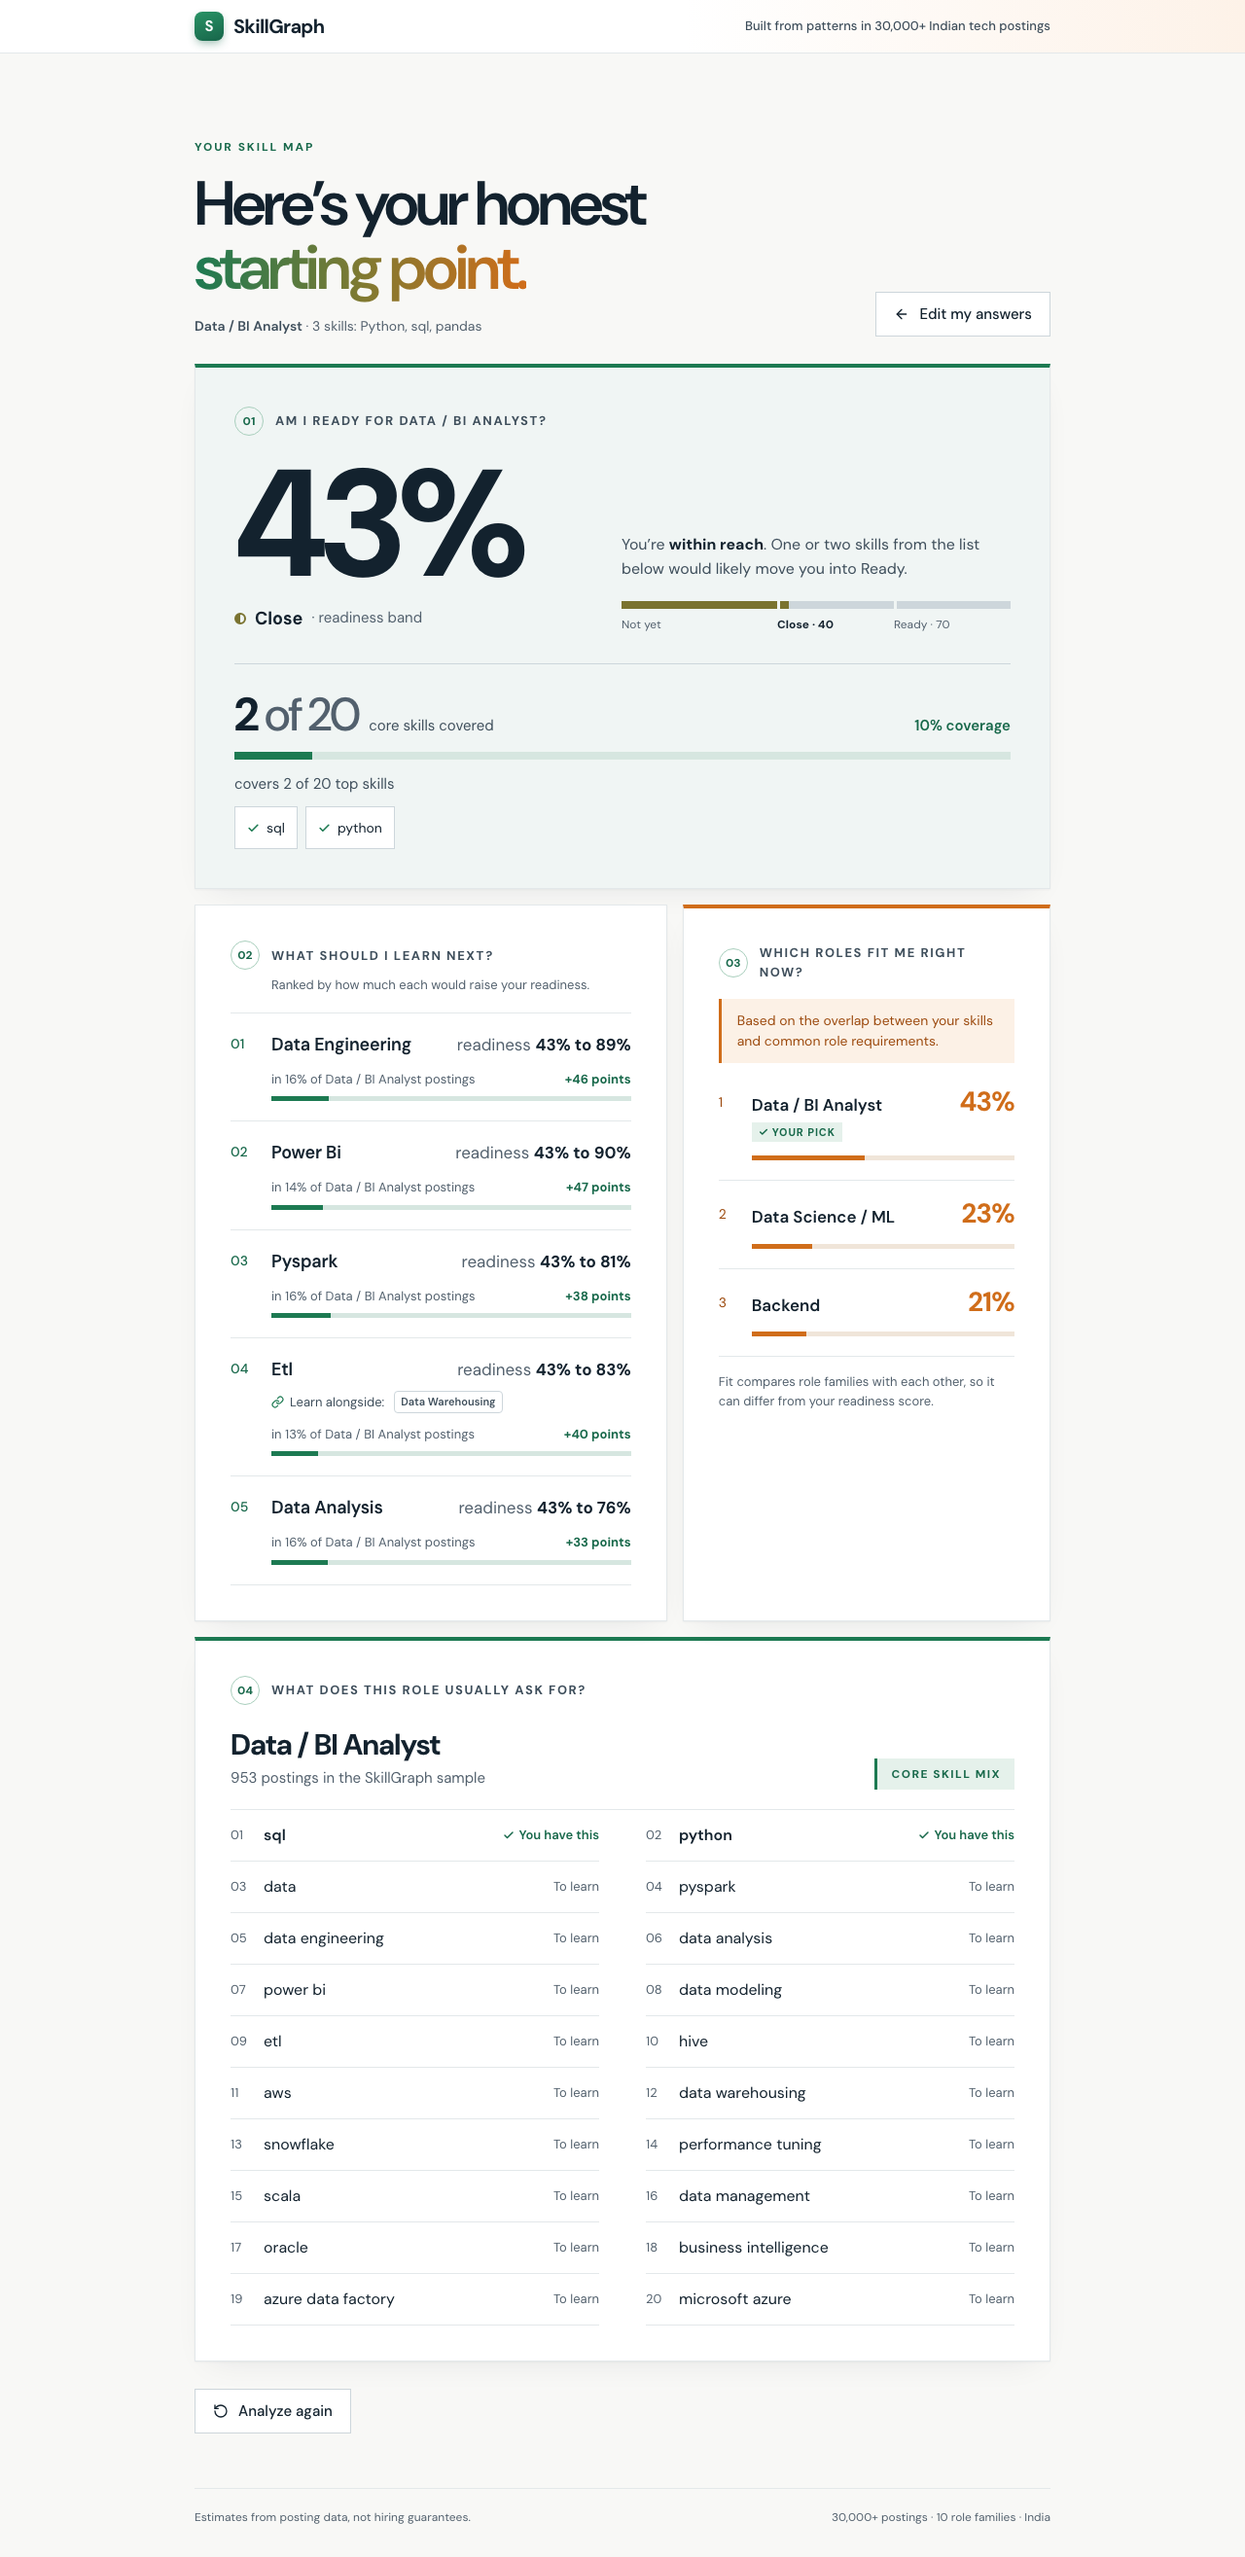
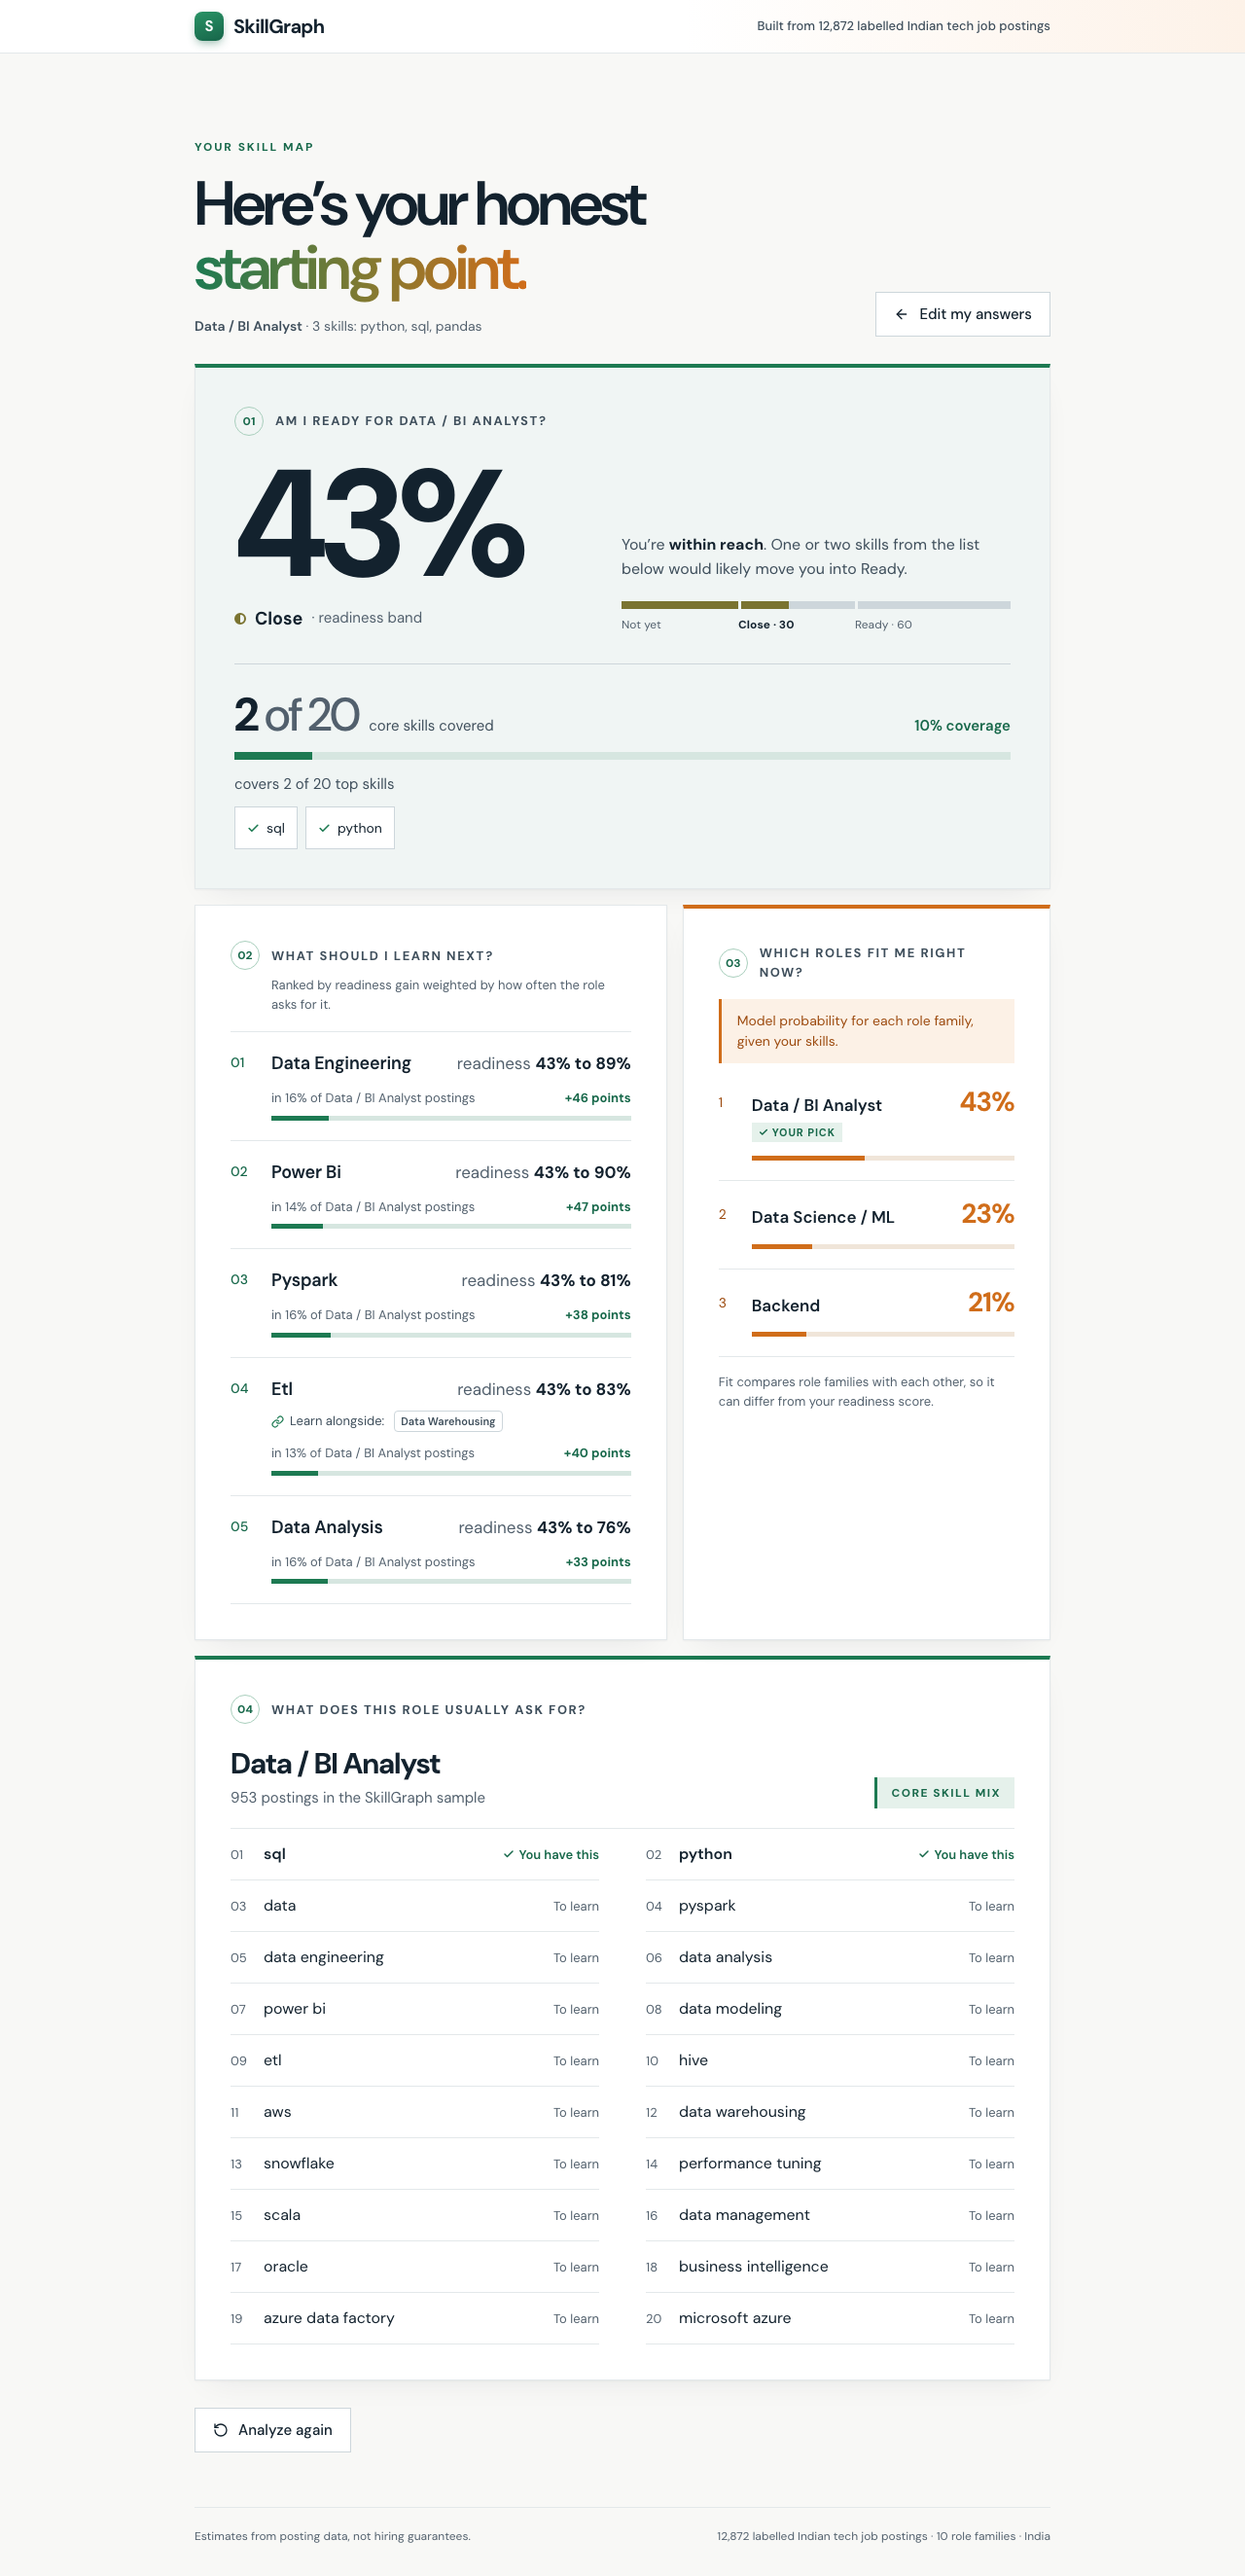
fix(frontend): update band cutoffs, copy and remove em dashes

diff --git a/frontend/src/App.jsx b/frontend/src/App.jsx
@@ -28,7 +28,7 @@ function disabledReason(count, role) {
   if (need && !role) {
     return count === 0 ? 'Add at least 2 skills and choose a target role to continue.' : 'Add 1 more skill and choose a target role to continue.';
   }
-  if (need) return count === 0 ? 'Add at least 2 skills to continue.' : 'Add 1 more skill to continue — one skill isn’t enough to compare against postings.';
+  if (need) return count === 0 ? 'Add at least 2 skills to continue.' : 'Add 1 more skill to continue, one skill isn’t enough to compare against postings.';
   if (!role) return 'Choose the role you’re aiming for to continue.';
   return null;
 }
@@ -43,7 +43,7 @@ function Header() {
           </span>
           <span className="text-xl font-bold tracking-[-0.035em]">SkillGraph</span>
         </div>
-        <span className="ml-auto hidden text-[13px] font-medium text-ink-2 sm:block">Built from patterns in 30,000+ Indian tech postings</span>
+        <span className="ml-auto hidden text-[13px] font-medium text-ink-2 sm:block">Built from 12,872 labelled Indian tech job postings</span>
       </div>
     </header>
   );
@@ -53,7 +53,7 @@ function Footer() {
   return (
     <footer className="flex flex-wrap justify-between gap-x-4 gap-y-1 border-t border-line pb-8 pt-5 text-xs leading-normal text-ink-3">
       <span>Estimates from posting data, not hiring guarantees.</span>
-      <span>30,000+ postings · 10 role families · India</span>
+      <span>12,872 labelled Indian tech job postings · 10 role families · India</span>
     </footer>
   );
 }
@@ -217,7 +217,7 @@ export default function App() {
                 <span className="text-gradient pb-[0.06em]">before you apply.</span>
               </h1>
               <p className="mt-5 max-w-[40ch] text-[clamp(16px,2.6vw,19px)] leading-[1.55] text-ink-2 text-pretty">
-                See how your current skills line up with the roles Indian tech companies are hiring for — based on 30,000+ real postings.
+                See how your current skills line up with the roles Indian tech companies are hiring for, based on 12,872 labelled Indian tech job postings.
               </p>
             </section>
 
@@ -227,11 +227,11 @@ export default function App() {
                 <div>
                   <h2 className="mb-1.5 text-[19px] font-bold tracking-[-0.02em]">We can't reach SkillGraph right now</h2>
                   <p className="mb-1.5 max-w-[58ch] text-[15px] leading-[1.55] text-ink-2 text-pretty">
-                    The roles load from our server, which is either waking up or briefly offline. Nothing you did caused this — your skills are kept.
+                    The roles load from our server, which is either waking up or briefly offline. Nothing you did caused this. Your skills are kept.
                   </p>
                   <p className="mb-4 text-sm text-ink-3">
                     {retryIn > 0
-                      ? `We'll try again automatically in ${retryIn} s. Free servers can take up to 30 seconds to wake up.`
+                      ? `We'll try again automatically in ${retryIn} s. Free servers can take up to 25 seconds to wake up.`
                       : 'Trying again…'}
                   </p>
                   <button type="button" onClick={loadRoles} className={primaryBtn.replace('min-h-[46px]', 'min-h-11')}>
@@ -306,16 +306,16 @@ export default function App() {
                     </h2>
                     <p className="mb-5 max-w-[60ch] text-[15px] leading-[1.55] text-ink-2 text-pretty">
                       {!waking
-                        ? 'Comparing your skills with 30,000+ postings. This usually takes a few seconds.'
-                        : 'This can take up to 30 seconds. SkillGraph runs on a free server that sleeps when nobody is using it, so the first check after a quiet spell is slower. Waiting is normal — no need to refresh, and your answers are kept.'}
+                        ? 'Comparing your skills with 12,872 labelled Indian tech job postings. This usually takes a few seconds.'
+                        : 'This can take up to 25 seconds. SkillGraph runs on a free server that sleeps when nobody is using it, so the first check after a quiet spell is slower. Waiting is normal, no need to refresh, and your answers are kept.'}
                     </p>
                     <div className="max-w-[520px]" aria-hidden="true">
                       <div className="h-1.5 bg-accent-track">
-                        <div className="h-full bg-accent transition-[width] duration-200 ease-linear" style={{ width: `${Math.min(96, (elapsed / 30) * 100)}%` }} />
+                        <div className="h-full bg-accent transition-[width] duration-200 ease-linear" style={{ width: `${Math.min(96, (elapsed / 25) * 100)}%` }} />
                       </div>
                       <div className="mt-2 flex justify-between gap-3 text-[13px] tabular-nums text-ink-3">
                         <span>{Math.floor(elapsed)} s elapsed</span>
-                        <span>Cold starts take up to 30 s</span>
+                        <span>Cold starts take up to 25 s</span>
                       </div>
                     </div>
                   </div>
@@ -373,8 +373,8 @@ export default function App() {
                     <span className="[overflow-wrap:anywhere]">
                       We didn't recognise: <strong className="font-semibold text-ink">{unrecognized.join(', ')}</strong>.{' '}
                       {unrecognized.length === 1
-                        ? 'It wasn’t counted — check the spelling or pick from the suggestions.'
-                        : 'They weren’t counted — check the spelling or pick from the suggestions.'}
+                        ? 'It wasn’t counted. Check the spelling or pick from the suggestions.'
+                        : 'They weren’t counted. Check the spelling or pick from the suggestions.'}
                     </span>
                   </p>
                 )}

diff --git a/frontend/src/components/ReadinessPanel.jsx b/frontend/src/components/ReadinessPanel.jsx
@@ -4,6 +4,13 @@ import StepHeading from './ui/StepHeading';
 import ProbabilityBar from './ui/ProbabilityBar';
 import { CoveredChip } from './ui/Chip';
 
+const BAND_CUTOFFS = {
+  close: 0.3,
+  ready: 0.6,
+  coverageClose: 0.1,
+  coverageReady: 0.2,
+};
+
 const BANDS = {
   Ready: {
     index: 2,
@@ -21,24 +28,24 @@ const BANDS = {
     index: 0,
     dot: 'border-band-notyet bg-transparent',
     fill: 'bg-band-notyet',
-    message: () => ['This is a ', 'starting point', ', not a verdict. The list below is the shortest path up — most students begin about here.'],
+    message: () => ['This is a ', 'starting point', ', not a verdict. The list below is the shortest path up, most students begin about here.'],
   },
 };
 
 const ZONES = [
-  { label: 'Not yet', basis: 'flex-[0_0_40%]' },
-  { label: 'Close · 40', basis: 'flex-[0_0_30%]' },
-  { label: 'Ready · 70', basis: 'flex-[0_0_30%]' },
+  { label: 'Not yet', basis: 'flex-[0_0_30%]' },
+  { label: `Close · ${Math.round(BAND_CUTOFFS.close * 100)}`, basis: 'flex-[0_0_30%]' },
+  { label: `Ready · ${Math.round(BAND_CUTOFFS.ready * 100)}`, basis: 'flex-[0_0_40%]' },
 ];
 
 function getTension({ probability, coverage }) {
   let probBand = 'Not yet';
-  if (probability >= 0.6) probBand = 'Ready';
-  else if (probability >= 0.3) probBand = 'Close';
+  if (probability >= BAND_CUTOFFS.ready) probBand = 'Ready';
+  else if (probability >= BAND_CUTOFFS.close) probBand = 'Close';
 
   let covBand = 'Not yet';
-  if (coverage >= 0.2) covBand = 'Ready';
-  else if (coverage >= 0.1) covBand = 'Close';
+  if (coverage >= BAND_CUTOFFS.coverageReady) covBand = 'Ready';
+  else if (coverage >= BAND_CUTOFFS.coverageClose) covBand = 'Close';
 
   const levels = { 'Ready': 3, 'Close': 2, 'Not yet': 1 };
   
@@ -109,8 +116,8 @@ export default function ReadinessPanel({ readiness, role }) {
           <div aria-hidden="true">
             <div className="relative h-2 bg-line-2">
               <div className={`absolute inset-y-0 left-0 ${band.fill}`} style={{ width: `${pct}%` }} />
-              <span className="absolute bottom-[-3px] left-[40%] top-[-3px] w-[3px] bg-tint" />
-              <span className="absolute bottom-[-3px] left-[70%] top-[-3px] w-[3px] bg-tint" />
+              <span className="absolute bottom-[-3px] top-[-3px] w-[3px] bg-tint" style={{ left: `${BAND_CUTOFFS.close * 100}%` }} />
+              <span className="absolute bottom-[-3px] top-[-3px] w-[3px] bg-tint" style={{ left: `${BAND_CUTOFFS.ready * 100}%` }} />
             </div>
             <div className="mt-2 flex text-xs">
               {ZONES.map((z, i) => (

diff --git a/frontend/src/components/MatchPanel.jsx b/frontend/src/components/MatchPanel.jsx
@@ -24,7 +24,7 @@ export default function MatchPanel({ matches = [], desiredRole, onSwitchRole, cl
             Best fit is {best}.
           </p>
           <p className="mb-4 text-sm leading-[1.55] text-ink-2 text-pretty">
-            Not a dead end — it shows where you'd be competitive today. Section 02 shows what {desiredRole} would take.
+            Not a dead end. It shows where you'd be competitive today. Section 02 shows what {desiredRole} would take.
           </p>
           {onSwitchRole && (
             <button
@@ -41,7 +41,7 @@ export default function MatchPanel({ matches = [], desiredRole, onSwitchRole, cl
 
       {chosenInTop && (
         <p className="mb-1.5 border-l-[3px] border-fit bg-fit-tint px-4 py-3 text-sm leading-normal text-fit-ink">
-          Based on the overlap between your skills and common role requirements.
+          Model probability for each role family, given your skills.
         </p>
       )}
 
@@ -74,7 +74,7 @@ export default function MatchPanel({ matches = [], desiredRole, onSwitchRole, cl
             {(!chosenInTop && desiredRole) && (
               <li className="grid grid-cols-[24px_minmax(0,1fr)] gap-x-2.5 pb-1 pt-4">
                 <span aria-hidden="true" className="pt-px text-sm text-ink-3">
-                  —
+                  -
                 </span>
                 <div className="flex flex-wrap justify-between gap-x-3 gap-y-1 text-[15px]">
                   <span className="text-ink-2">

diff --git a/frontend/src/components/GapPanel.jsx b/frontend/src/components/GapPanel.jsx
@@ -18,7 +18,7 @@ export default function GapPanel({ recommendations = [], probability = 0, role, 
 
       {recs.length > 0 ? (
         <>
-          <p className="mb-[18px] ml-[42px] text-[13px] text-ink-3">Ranked by how much each would raise your readiness.</p>
+          <p className="mb-[18px] ml-[42px] text-[13px] text-ink-3">Ranked by readiness gain weighted by how often the role asks for it.</p>
           <ol className="border-t border-line">
             {recs.map((rec, i) => {
               const after = Math.round(Math.min(1, probability + (rec.readiness_gain || 0)) * 100);
@@ -69,7 +69,7 @@ export default function GapPanel({ recommendations = [], probability = 0, role, 
           <div>
             <p className="mb-1.5 text-lg font-bold tracking-[-0.015em]">You already have every skill this role commonly asks for.</p>
             <p className="max-w-[46ch] text-sm leading-[1.6] text-ink-2">
-              From here, depth counts more than breadth — projects and interview practice will move you further than another skill.
+              From here, depth counts more than breadth. Projects and interview practice will move you further than another skill.
             </p>
           </div>
         </div>

diff --git a/frontend/src/components/SkillInput.jsx b/frontend/src/components/SkillInput.jsx
@@ -274,7 +274,7 @@ export default function SkillInput({ value, onChange, inputId = 'skill-search' }
       )}
 
       <p id={hintId} className="mb-5 mt-2.5 text-[13px] leading-normal text-ink-3">
-        Aliases work — “reactjs”, “k8s”, “sklearn”. ↑ ↓ to move, Enter to add, Esc to clear, Backspace removes the last skill.
+        Aliases work, like “reactjs”, “k8s”, “sklearn”. ↑ ↓ to move, Enter to add, Esc to clear, Backspace removes the last skill.
       </p>
 
       {searchStatus === 'error' && (
@@ -325,7 +325,7 @@ export default function SkillInput({ value, onChange, inputId = 'skill-search' }
         </>
       ) : (
         <p className="text-[15px] leading-normal text-ink-3">
-          Your selected skills will appear here. Add at least 2 — languages, frameworks, tools and coursework like DBMS all count.
+          Your selected skills will appear here. Add at least 2. Languages, frameworks, tools and coursework like DBMS all count.
         </p>
       )}
     </section>

diff --git a/frontend/index.html b/frontend/index.html
@@ -4,7 +4,7 @@
     <meta charset="UTF-8" />
     <meta name="viewport" content="width=device-width, initial-scale=1.0" />
     <meta name="theme-color" content="#f8f8f6" />
-    <meta name="description" content="See how your skills line up with the roles Indian tech companies are hiring for, based on 30,000+ real postings." />
+    <meta name="description" content="See how your skills line up with the roles Indian tech companies are hiring for, based on 12,872 labelled Indian tech job postings." />
     <title>SkillGraph</title>
     <link rel="icon" type="image/svg+xml" href="/favicon.svg" />
     <link rel="preconnect" href="https://fonts.googleapis.com" />

diff --git a/frontend/src/api/client.js b/frontend/src/api/client.js
@@ -41,7 +41,7 @@ function normalizeError(err) {
     }
   } else if (err?.code === 'ECONNABORTED' || err?.code === 'ETIMEDOUT' || /timeout/i.test(err?.message || '')) {
     title = 'Request timed out';
-    message = "The server didn't respond within 25 seconds. This sometimes happens right after it wakes up — trying again usually works.";
+    message = "The server didn't respond within 25 seconds. This sometimes happens right after it wakes up, trying again usually works.";
   } else if (!err?.response) {
     title = 'Connection problem';
     message = "The request didn't reach the server. Check your internet connection.";
